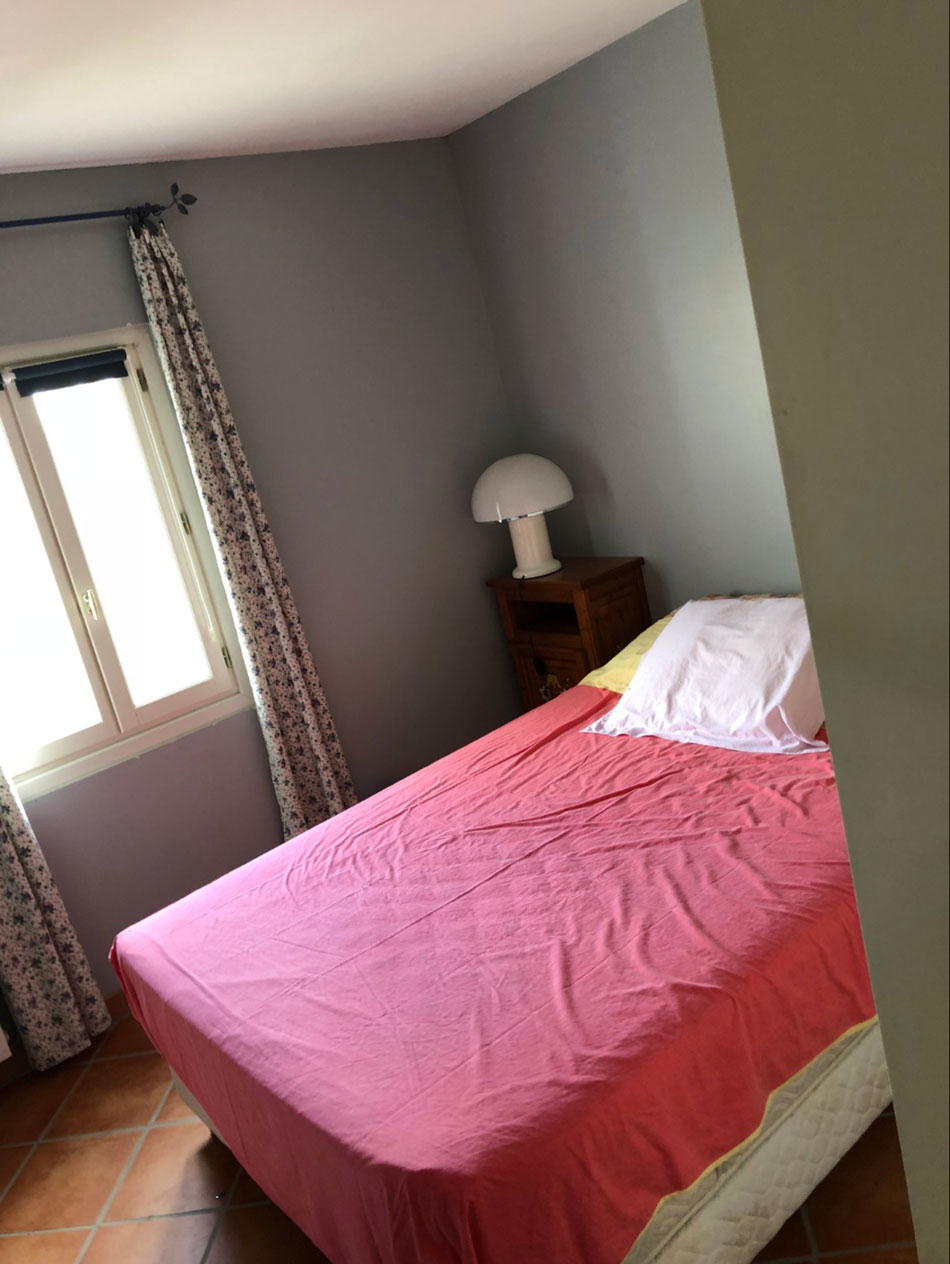
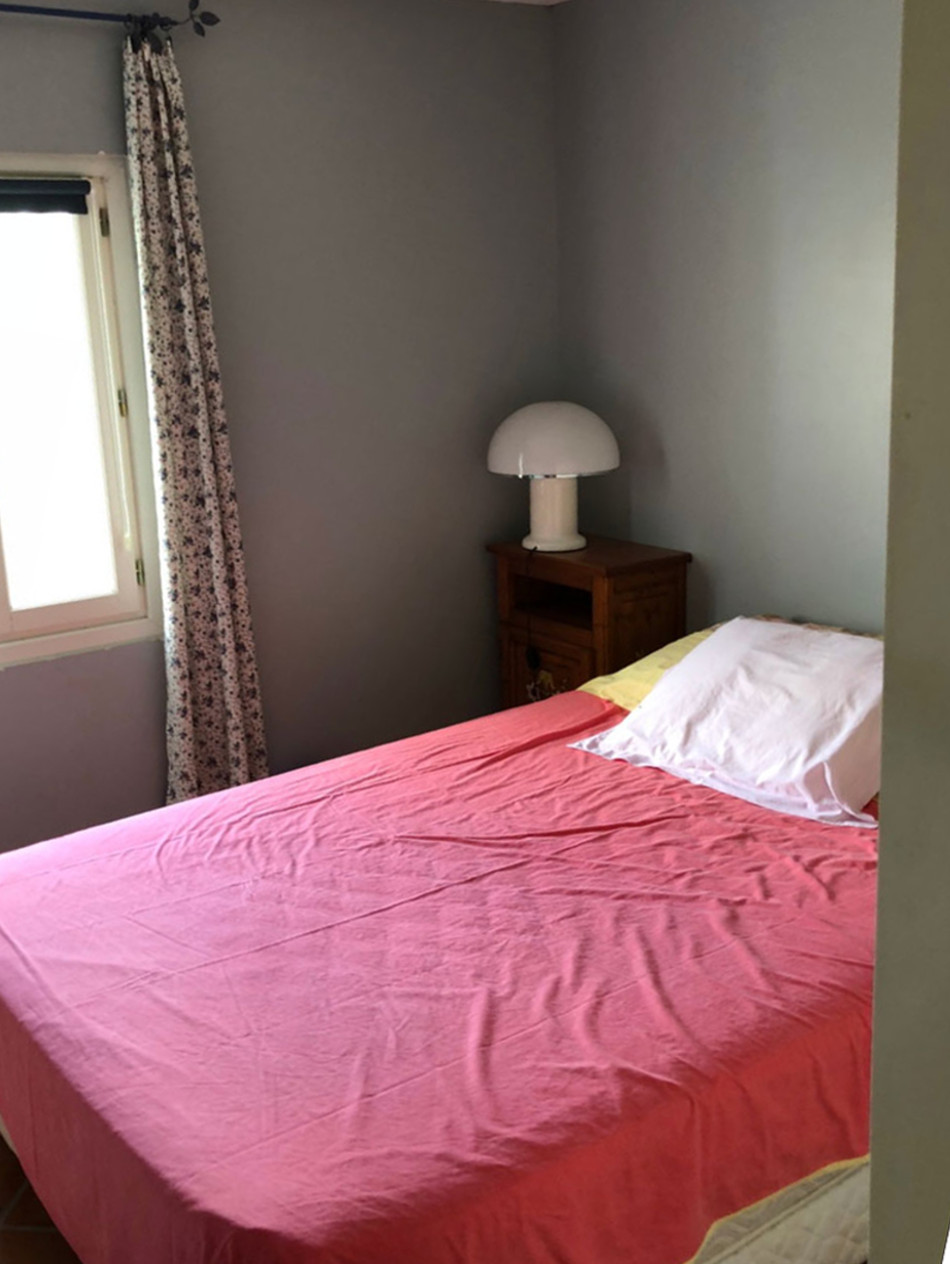
presque finish

diff --git a/Chambre_Bas.html b/Chambre_Bas.html
@@ -1,0 +1,38 @@
+<!DOCTYPE html>
+<html lang="en">
+  <head>
+    <meta charset="UTF-8" />
+    <meta name="viewport" content="width=device-width, initial-scale=1.0" />
+    <meta http-equiv="X-UA-Compatible" content="ie=edge" />
+    <link rel="stylesheet" type="text/css" href="style.css" />
+
+    <title>Document</title>
+  </head>
+  <body>
+    <header>
+      <nav id="menu">
+        <img src="menu.svg" alt="menu_logo" class = menu_logo id = open-menu>
+        <ul>
+          <a class = "lien" href="index.html"><li>Exterieur</li></a>
+          <br>
+          <a class="lien" href="pigeon.html"><li>Chambre Piegeonnier</li><a>
+          <br>
+          <a class="lien" href="salon.html"><li>Salon</li><a>
+        </ul>
+        <ul>
+          <a class = "lien" href="MEZ.html"><li>Mezzanine</li><a>
+        </ul>
+        </div>
+      </nav>
+    </header>
+    <img src="CHAMBRE BAS/Chambre-bas2.jpg" class="img">
+    <img src="CHAMBRE BAS/chambre-bas.jpg" class="img_s">
+    <p class="description">Une grande chambre (20 m2)</p>
+    <img src="CHAMBRE BAS/Salle-eau-bas.jpg" class="img">
+    <img src="CHAMBRE BAS/Salle-eau-bas4.jpg" class="img_s">
+    <p class="description">dotée d’une salle de douche récente.</p>
+    <img src="CHAMBRE BAS/WC-bas.jpg" class="img">
+    <p class="description">Un wc séparé.</p>
+      <script type="text/javascript" src="app.js"></script>
+  </body>
+</html>

diff --git a/salon.html b/salon.html
@@ -1,0 +1,36 @@
+<!DOCTYPE html>
+<html lang="en">
+  <head>
+    <meta charset="UTF-8" />
+    <meta name="viewport" content="width=device-width, initial-scale=1.0" />
+    <meta http-equiv="X-UA-Compatible" content="ie=edge" />
+    <link rel="stylesheet" type="text/css" href="style.css" />
+
+    <title>Document</title>
+  </head>
+  <body>
+    <header>
+      <nav id="menu">
+        <img src="menu.svg" alt="menu_logo" class = menu_logo id = open-menu>
+        <ul>
+          <a class = "lien" href="index.html"><li>Exterieur</li></a>
+          <br>
+          <a class="lien" href="pigeon.html"><li>Chambre Piegeonnier</li><a>
+          <br>
+          <a class="lien" href="Chambre_Bas.html"><li>Chmabre Bas</li><a>
+        </ul>
+        <ul>
+          <a class = "lien" href="MEZ.html"><li>Mezzanine</li><a>
+        </ul>
+        </div>
+      </nav>
+    </header>
+      <img src="SALON/salon6.jpg" class="img">
+      <img src="SALON/salon5-vue-escalier.jpg" class="img_s">
+      <p class="description">Un salon de 40 m2 </p>
+      <img src="SALON/Salon1.jpg" class="img">
+      <img src="SALON/Salon4.jpg" class="img_s">
+      <p class="description">doté d’une cheminée à foyer fermé </p>
+      <script type="text/javascript" src="app.js"></script>
+  </body>
+</html>

diff --git a/MEZ.html b/MEZ.html
@@ -1,0 +1,33 @@
+<!DOCTYPE html>
+<html lang="en">
+  <head>
+    <meta charset="UTF-8" />
+    <meta name="viewport" content="width=device-width, initial-scale=1.0" />
+    <meta http-equiv="X-UA-Compatible" content="ie=edge" />
+    <link rel="stylesheet" type="text/css" href="style.css" />
+
+    <title>Document</title>
+  </head>
+  <body>
+    <header>
+      <nav id="menu">
+        <img src="menu.svg" alt="menu_logo" class = menu_logo id = open-menu>
+        <ul>
+          <a class = "lien" href="index.html"><li>Exterieur</li></a>
+          <br>
+          <a class="lien" href="pigeon.html"><li>Chambre Piegeonnier</li><a>
+          <br>
+          <a class="lien" href="Chambre_Bas.html"><li>Chmabre Bas</li><a>
+        </ul>
+        <ul>
+          <a class = "lien" href="index.html"><li>Exterieur</li><a>
+        </ul>
+        </div>
+      </nav>
+    </header>
+    <img src="MEZZANINE/Mezzanine1.jpg" class="img">
+    <img src="MEZZANINE/Mezzanine2.jpg" class="img_s">
+    <p class="description"> La mezzanine du salon peut abriter un lit double avec accès au grenier.</p>
+      <script type="text/javascript" src="app.js"></script>
+  </body>
+</html>

diff --git a/pigeon.html b/pigeon.html
@@ -1,0 +1,32 @@
+<!DOCTYPE html>
+<html lang="en">
+  <head>
+    <meta charset="UTF-8" />
+    <meta name="viewport" content="width=device-width, initial-scale=1.0" />
+    <meta http-equiv="X-UA-Compatible" content="ie=edge" />
+    <link rel="stylesheet" type="text/css" href="style.css" />
+
+    <title>Document</title>
+  </head>
+  <body>
+    <header>
+      <nav id="menu">
+        <img src="menu.svg" alt="menu_logo" class = menu_logo id = open-menu>
+        <ul>
+          <a class = "lien" href="index.html"><li>Exterieur</li></a>
+          <br>
+          <a class="lien" href="index.html"><li>Exterieur</li><a>
+          <br>
+          <a class="lien" href="Chambre_Bas.html"><li>Chmabre Bas</li><a>
+        </ul>
+        <ul>
+          <a class = "lien" href="index.html"><li>Exterieur</li><a>
+        </ul>
+        </div>
+      </nav>
+    </header>
+    <img src="CHAMBRE PIGEONNIER/Chambre.jpg" class="img">
+    <p class="description"> Un pigeonnier au-dessus de la cuisine, où se trouve une chambre</p>
+      <script type="text/javascript" src="app.js"></script>
+  </body>
+</html>

diff --git a/index.html b/index.html
@@ -11,16 +11,16 @@
   <body>
     <header>
       <nav id="menu">
-          <img src="menu.svg" alt="menu_logo" class = menu_logo id = open-menu>
+        <img src="menu.svg" alt="menu_logo" class = menu_logo id = open-menu>
         <ul>
-          <li>Chambre Bas</li>
+          <a  class = "lien" href="Chambre_Bas.html"><li>Chambre Bas</li></a>
           <br>
-          <li>Chambre Piegeonnier</li>
+          <a class="lien" href="pigeon.html"><li>Chambre Piegeonnier</li><a>
           <br>
-          <li>Salon</li>
+          <a class = "lien" href="salon.html"><li>Salon</li><a>
         </ul>
         <ul>
-          <li>Mezzanine</li>
+          <a  class = "lien" href="MEZ.html"><li>Mezzanine</li><a>
         </ul>
         </div>
       </nav>

diff --git a/style.css b/style.css
@@ -50,7 +50,20 @@ ul .salon {
   margin-left: auto;
   margin-right: auto;
 }
+.img_s {
+  display: block;
+  height: 252px;
+  width: 286px;
+  margin-top: 5px;
+  margin-left: auto;
+  margin-right: auto;
+}
 
 .description {
   text-align: center;
+}
+
+.lien {
+  text-decoration: none;
+  color: white;
 }
